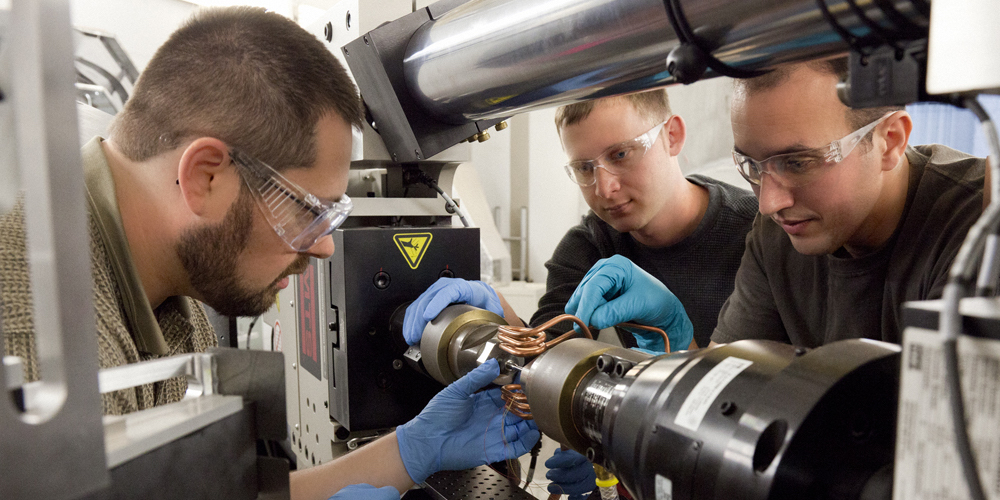
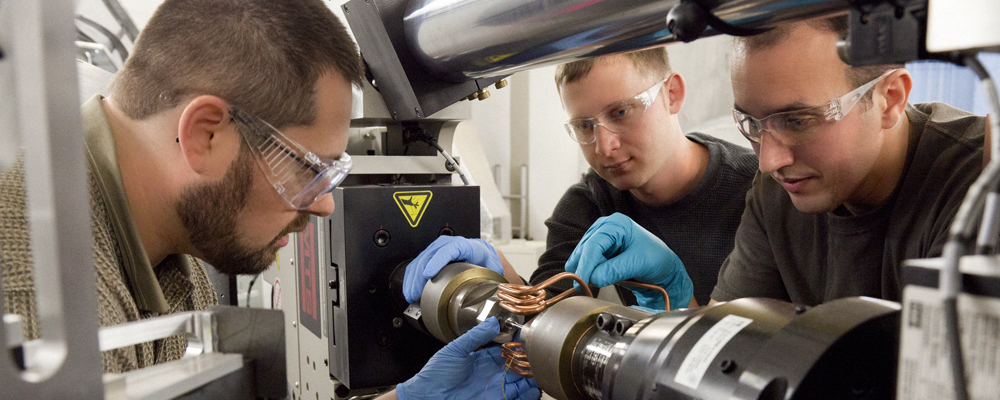
added home columns, refactored footer

diff --git a/content/footer.html b/content/footer.html
@@ -1,0 +1,17 @@
+<div class="container content is-small">
+  <div class="content has-text-centered">
+    <p>
+      <strong>Dr. Sudipta Seal</strong>, University of Central Florida &nbsp;|&nbsp; 
+      Director, <a href="">Advanced Materials Processing and Analysis Center</a> &nbsp;|&nbsp; 
+      Director, <a href="">NanoScience Technology Center</a>
+    </p>
+    <p>
+    	Professor, <a href="">Dept. of Mechanical, Materials, and Aerospace Engineering</a>
+    </p>
+    <p>
+    	Email: <a href="mailto:sudipta.seal@ucf.edu">Sudipta.Seal@ucf.edu</a> &nbsp;|&nbsp; 
+    	Phone: <a href="tel:+1407.823.5277">407.823.5277</a> or <a href="tel:+1407.882.1458">407.882.1458</a> &nbsp;|&nbsp;
+    	Fax: <a href="tel:+1407.882.1156">407.882.1156</a> or <a href="tel:+1407.823.0208">407.823.0208</a>
+    </p>
+  </div>
+  </div>

diff --git a/content/about.html b/content/about.html
@@ -1,3 +1,4 @@
+<p class="notification is-warning has-text-centered title is-5">About</p>
 <p>
 	Dr. Sudipta Seal Dr. Sudipta Seal joined the Advanced Materials Processing and Analysis Center (AMPAC) and Materials Science & Engineering at the University of Central Florida in 1997. He has been consistently productive in research, instruction and service to UCF since 1998. He has served as NanoInitiative Coordinator for the Vice-President of Research & Commercialization. He is currently the Director of AMPAC and NanoScience Technology Center (NSTC) since 2009. In 2014 Mar, Dr. Seal was appointed Interim Chair of the Materials Science & Engineering Department of CECS. He is a Pegasus Professor and University Distinguished Professor.
 </p>

diff --git a/content/home/news.html b/content/home/news.html
@@ -1,0 +1,23 @@
+<p class="notification is-info has-text-centered title is-5">News</p>
+
+<p>
+	<ul>
+		<li>	
+			<a href="">
+				Lorem Ipsum is simply dummy text of the printing and typesetting industry.
+			</a>
+		</li>
+		<li>	
+			<a href="">
+				Lorem Ipsum has been the industry's standard dummy text ever since the 1500s, when an unknown printer took a galley of type and scrambled it to make a type specimen book.
+			</a>
+		</li>
+		<li>	
+			<a href="">
+				It has survived not only five centuries, but also the leap into electronic typesetting, remaining essentially unchanged.
+			</a>
+		</li>
+	</ul>
+</p>
+
+<a class="button">More news</a>

diff --git a/content/home/about.html b/content/home/about.html
@@ -1,0 +1,5 @@
+<p class="notification is-warning has-text-centered title is-5">About</p>
+<p>
+	Dr. Sudipta Seal Dr. Sudipta Seal joined the Advanced Materials Processing and Analysis Center (AMPAC) and Materials Science & Engineering at the University of Central Florida in 1997. He has been consistently productive in research, instruction and service to UCF since 1998. He has served as NanoInitiative Coordinator for the Vice-President of Research & Commercialization.
+</p>
+<a class="button">Read more</a>

diff --git a/content/home/research.html b/content/home/research.html
@@ -1,0 +1,7 @@
+<p class="notification is-danger has-text-centered title is-5">Research</p>
+
+<p>
+	Lorem Ipsum is simply dummy text of the printing and typesetting industry. Lorem Ipsum has been the industry's standard dummy text ever since the 1500s, when an unknown printer took a galley of type and scrambled it to make a type specimen book. It has survived not only five centuries, but also the leap into electronic typesetting, remaining essentially unchanged.
+</p>
+
+<a class="button">Read more</a>

diff --git a/content/home/contact.html b/content/home/contact.html
@@ -1,0 +1,15 @@
+<p class="notification has-text-centered title is-5">Contact</p>
+<p>
+	Dr. Sudipta Seal<br>
+	University of Central Florida<br>
+	<a href="http://map.ucf.edu/locations/40/engineering-i-engr/">
+		Engineering 1, Rm 381
+	</a><br>
+	P.O. Box 162455<br>
+	Orlando, FL 32816<br>
+</p>
+<p>
+	<a href="">Sudipta.Seal@ucf.edu</a><br>
+	Phone: <a href="tel:+14078235277">407.823.5277</a> or <a href="tel:+14078821458">407.882.1458</a><br>
+	Fax: 407.882.1156 or 407.823.0208
+</p>

diff --git a/content/home/opportunities.html b/content/home/opportunities.html
@@ -1,0 +1,9 @@
+<p class="notification is-success has-text-centered title is-5">Opportunities</p>
+
+<p>
+	<a href="">NSF REU Program</a>
+	<hr>
+
+	<a href="">Open Positions</a>
+	<hr>
+</p>

diff --git a/includes/footer.php b/includes/footer.php
@@ -1,22 +1,7 @@
 <!-- Footer -->
 <footer class="footer">
-  <div class="container content is-small">
-    <div class="content has-text-centered">
-      <p>
-        <strong>Dr. Sudipta Seal</strong>, University of Central Florida &nbsp;|&nbsp; 
-        Director, <a href="">Advanced Materials Processing and Analysis Center</a> &nbsp;|&nbsp; 
-        Director, <a href="">NanoScience Technology Center</a>
-      </p>
-      <p>
-      	Professor, <a href="">Dept. of Mechanical, Materials, and Aerospace Engineering</a>
-      </p>
-      <p>
-      	Email: <a href="mailto:sudipta.seal@ucf.edu">Sudipta.Seal@ucf.edu</a> &nbsp;|&nbsp; 
-      	Phone: <a href="tel:+1407.823.5277">407.823.5277</a> or <a href="tel:+1407.882.1458">407.882.1458</a> &nbsp;|&nbsp;
-      	Fax: <a href="tel:+1407.882.1156">407.882.1156</a> or <a href="tel:+1407.823.0208">407.823.0208</a>
-      </p>
-    </div>
-  </div>
+  <?php 
+    require_once('./content/footer.html'); ?>
 </footer>
 
 </body>

diff --git a/index.php b/index.php
@@ -1,27 +1,31 @@
-<?php
+<section class="section">
+	<div class="card">
 
-// Dr. Sudipta Seal Research Site
-// Austin Tindle - tindleaj@gmail.com
+		<?php
 
-require_once('./includes/functions.php');
-require_once('./includes/header.php');
+		// Dr. Sudipta Seal Research Site
+		// Austin Tindle - tindleaj@gmail.com
 
-if (isset($_GET['page'])) {
-	switch ($_GET['page']) {
-		case 'home':
+		require_once('./includes/functions.php');
+		require_once('./includes/header.php');
+
+		if (isset($_GET['page'])) {
+			switch ($_GET['page']) {
+				case 'home':
+					require_once('views/home.php');
+					break;
+				
+				default:
+					require_once('views/404.php');
+					break;
+			}
+		} else {
 			require_once('views/home.php');
-			break;
-		
-		default:
-			require_once('views/404.php');
-			break;
-	}
-} else {
-	require_once('views/home.php');
-}
+		}
 
 
 
-require_once('includes/footer.php'); 
+		require_once('includes/footer.php'); ?>
 
-?>
+	</div>
+</section>

diff --git a/views/partials/home-columns.php b/views/partials/home-columns.php
@@ -1,0 +1,41 @@
+<!-- Home Columns Section -->
+<div class="columns">
+
+	<!-- News -->
+	<div class="column">
+		<div class="content">
+			<?php 
+				require_once('./content/home/news.html'); ?>
+		</div>
+	</div>
+
+	<!-- About -->
+	<div class="column">
+		<div class="content">
+			<?php 
+				require_once('./content/home/about.html'); ?>
+		</div>
+	</div>
+
+	<!-- Research -->
+	<div class="column">
+		<div class="content">
+			<?php 
+				require_once('./content/home/research.html'); ?>
+		</div>
+	</div>
+
+	<!-- Opportunities -->
+	<div class="column">
+		<div class="content">
+			<?php 
+				require_once('./content/home/opportunities.html'); ?>
+
+			<!-- Contact -->
+			<?php 
+				require_once('./content/home/contact.html'); ?>
+		</div>
+	</div>
+	
+</div>
+	

diff --git a/views/home.php b/views/home.php
@@ -1,20 +1,23 @@
 <!-- Home -->
-<section class="section">
-	<div class="card">
+<!-- Hero -->
+<section class="hero">
 
-		<!-- Hero -->
-		<section class="hero">
+	<!-- Navigation -->
+	<?php 
+		require_once('./views/partials/nav.php'); ?>
 
-			<!-- Navigation -->
-			<?php 
-				require_once('./views/partials/nav.php'); ?>
-
-		  <!-- Slider -->
-		  <?php 
-				require_once('./views/partials/slider.php'); ?>
-		  
-
-		</section>
-
-	</div>
+  <!-- Slider -->
+  <?php 
+		require_once('./views/partials/slider.php'); ?>
+  
 </section>
+
+<!-- Body -->
+<section class="section">
+
+	<?php 
+		require_once('./views/partials/home-columns.php'); ?>
+	
+</section>
+
+	

diff --git a/views/partials/slider.php b/views/partials/slider.php
@@ -2,7 +2,7 @@
 
 <!-- Hero Body -->
 <div class="hero-body is-paddingless">
-	<figure class="image is-2by1">
+	<figure class="image">
 	  <img src="./public/images/home/slider/1.jpg">
 	</figure>
 </div>
